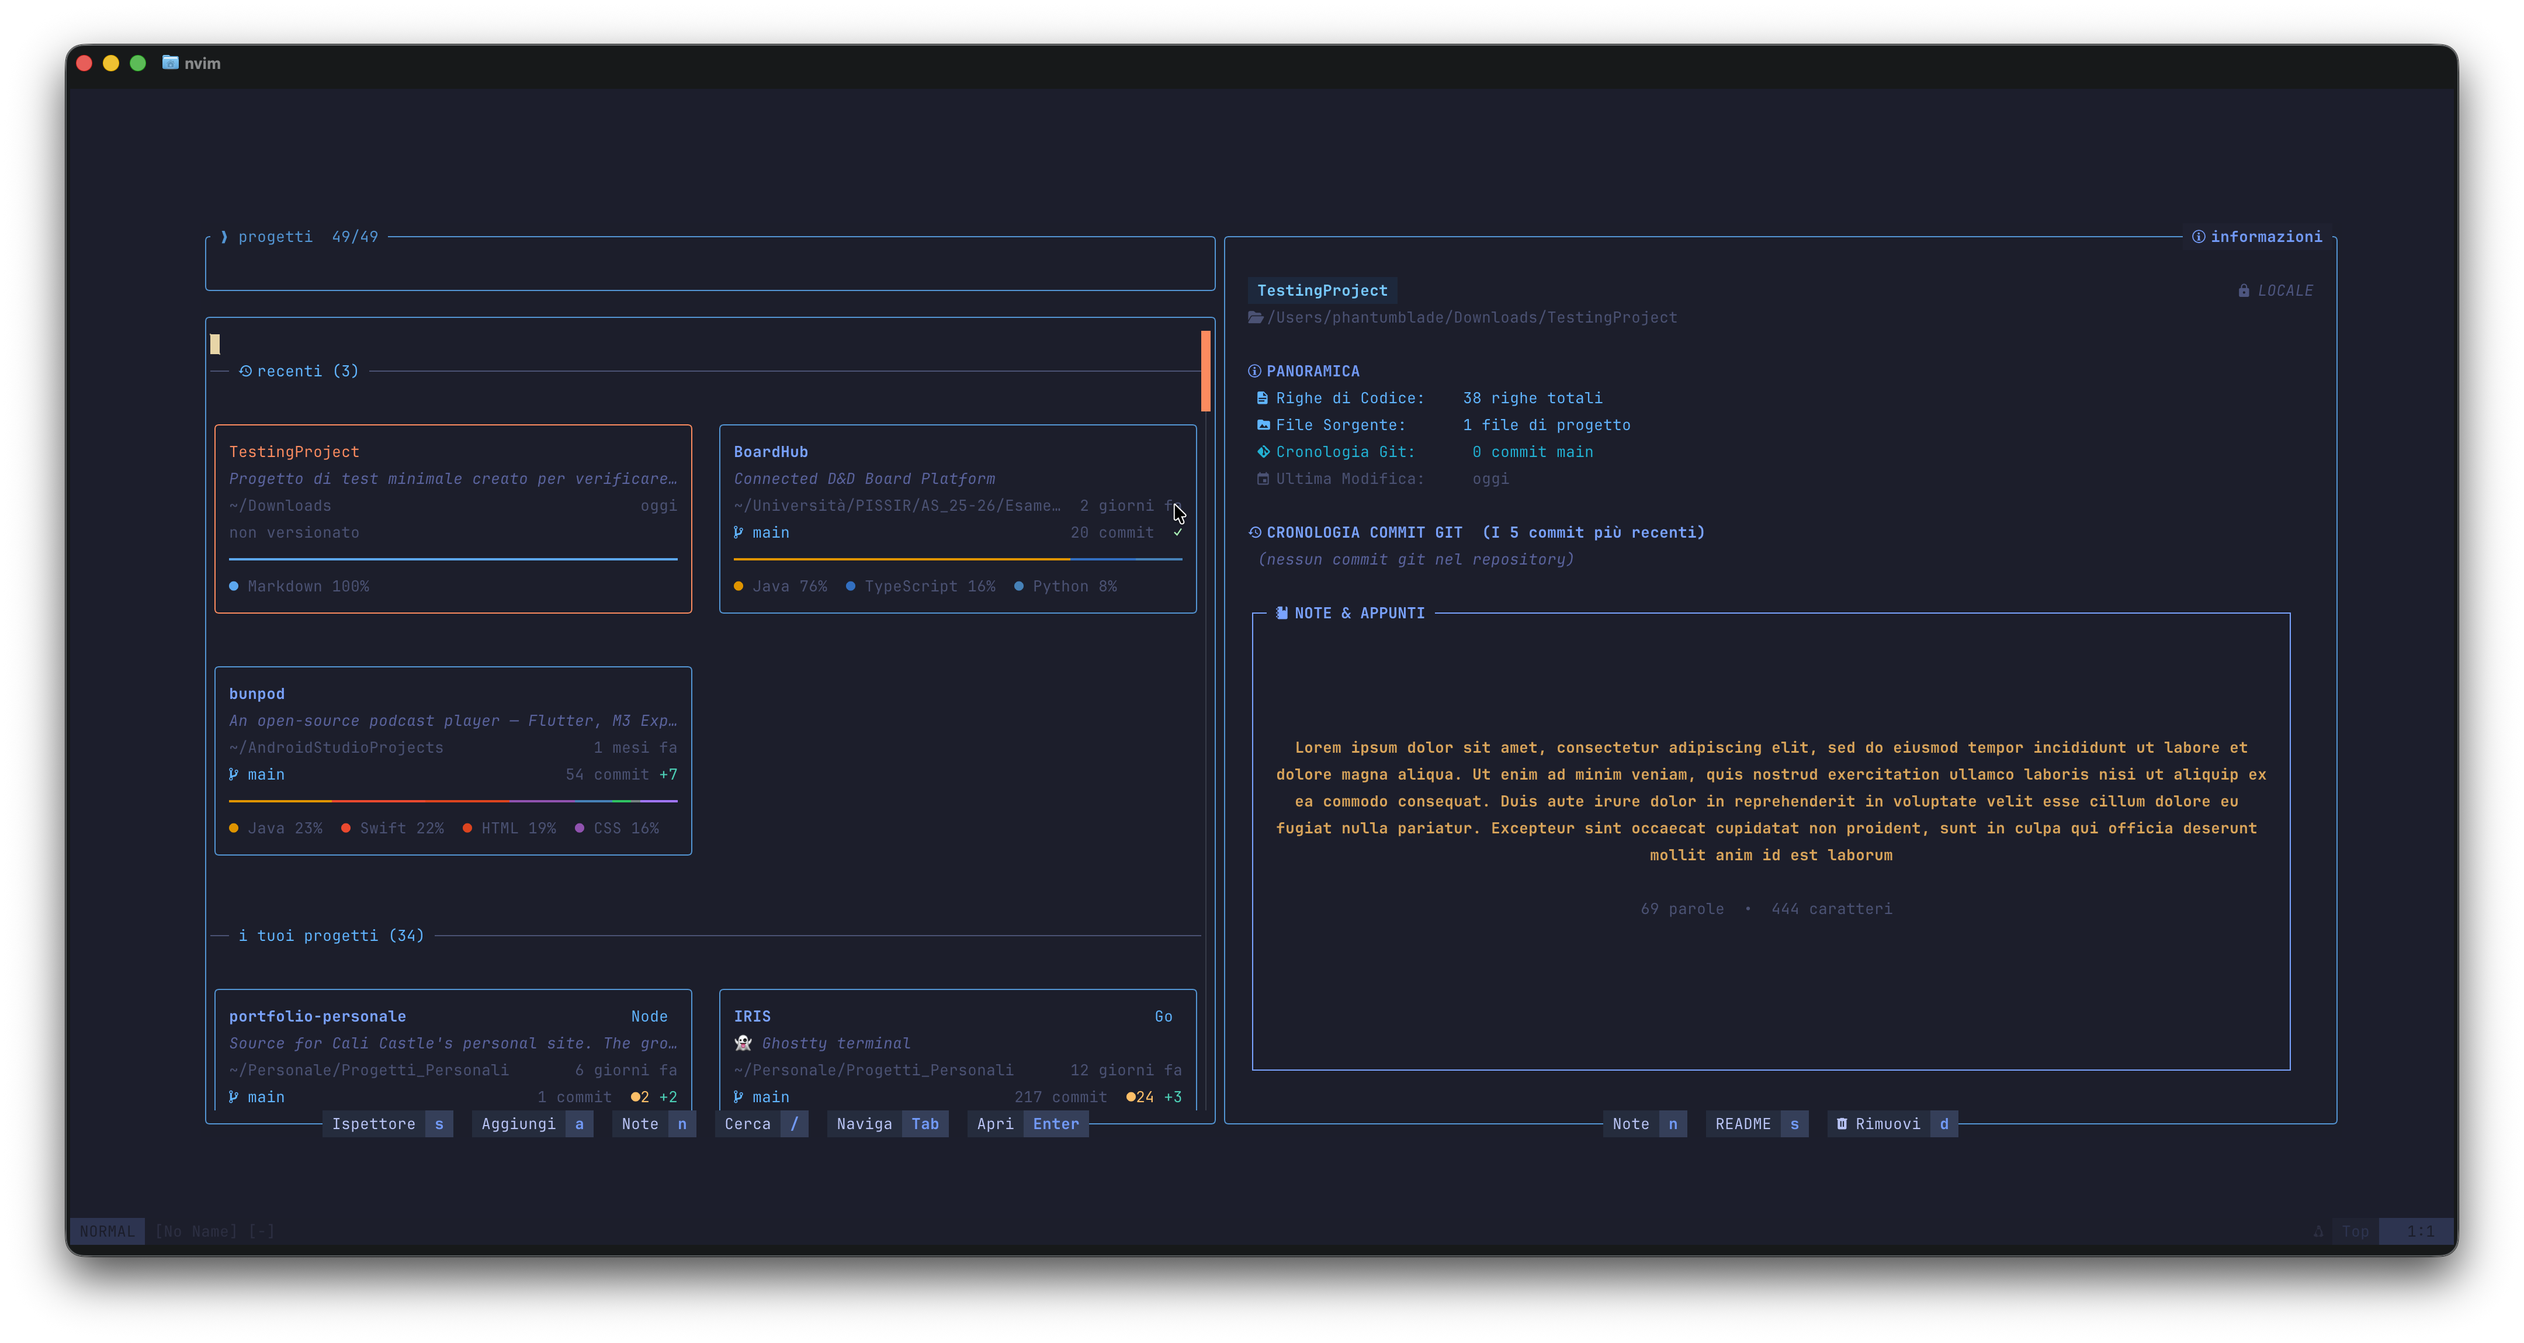
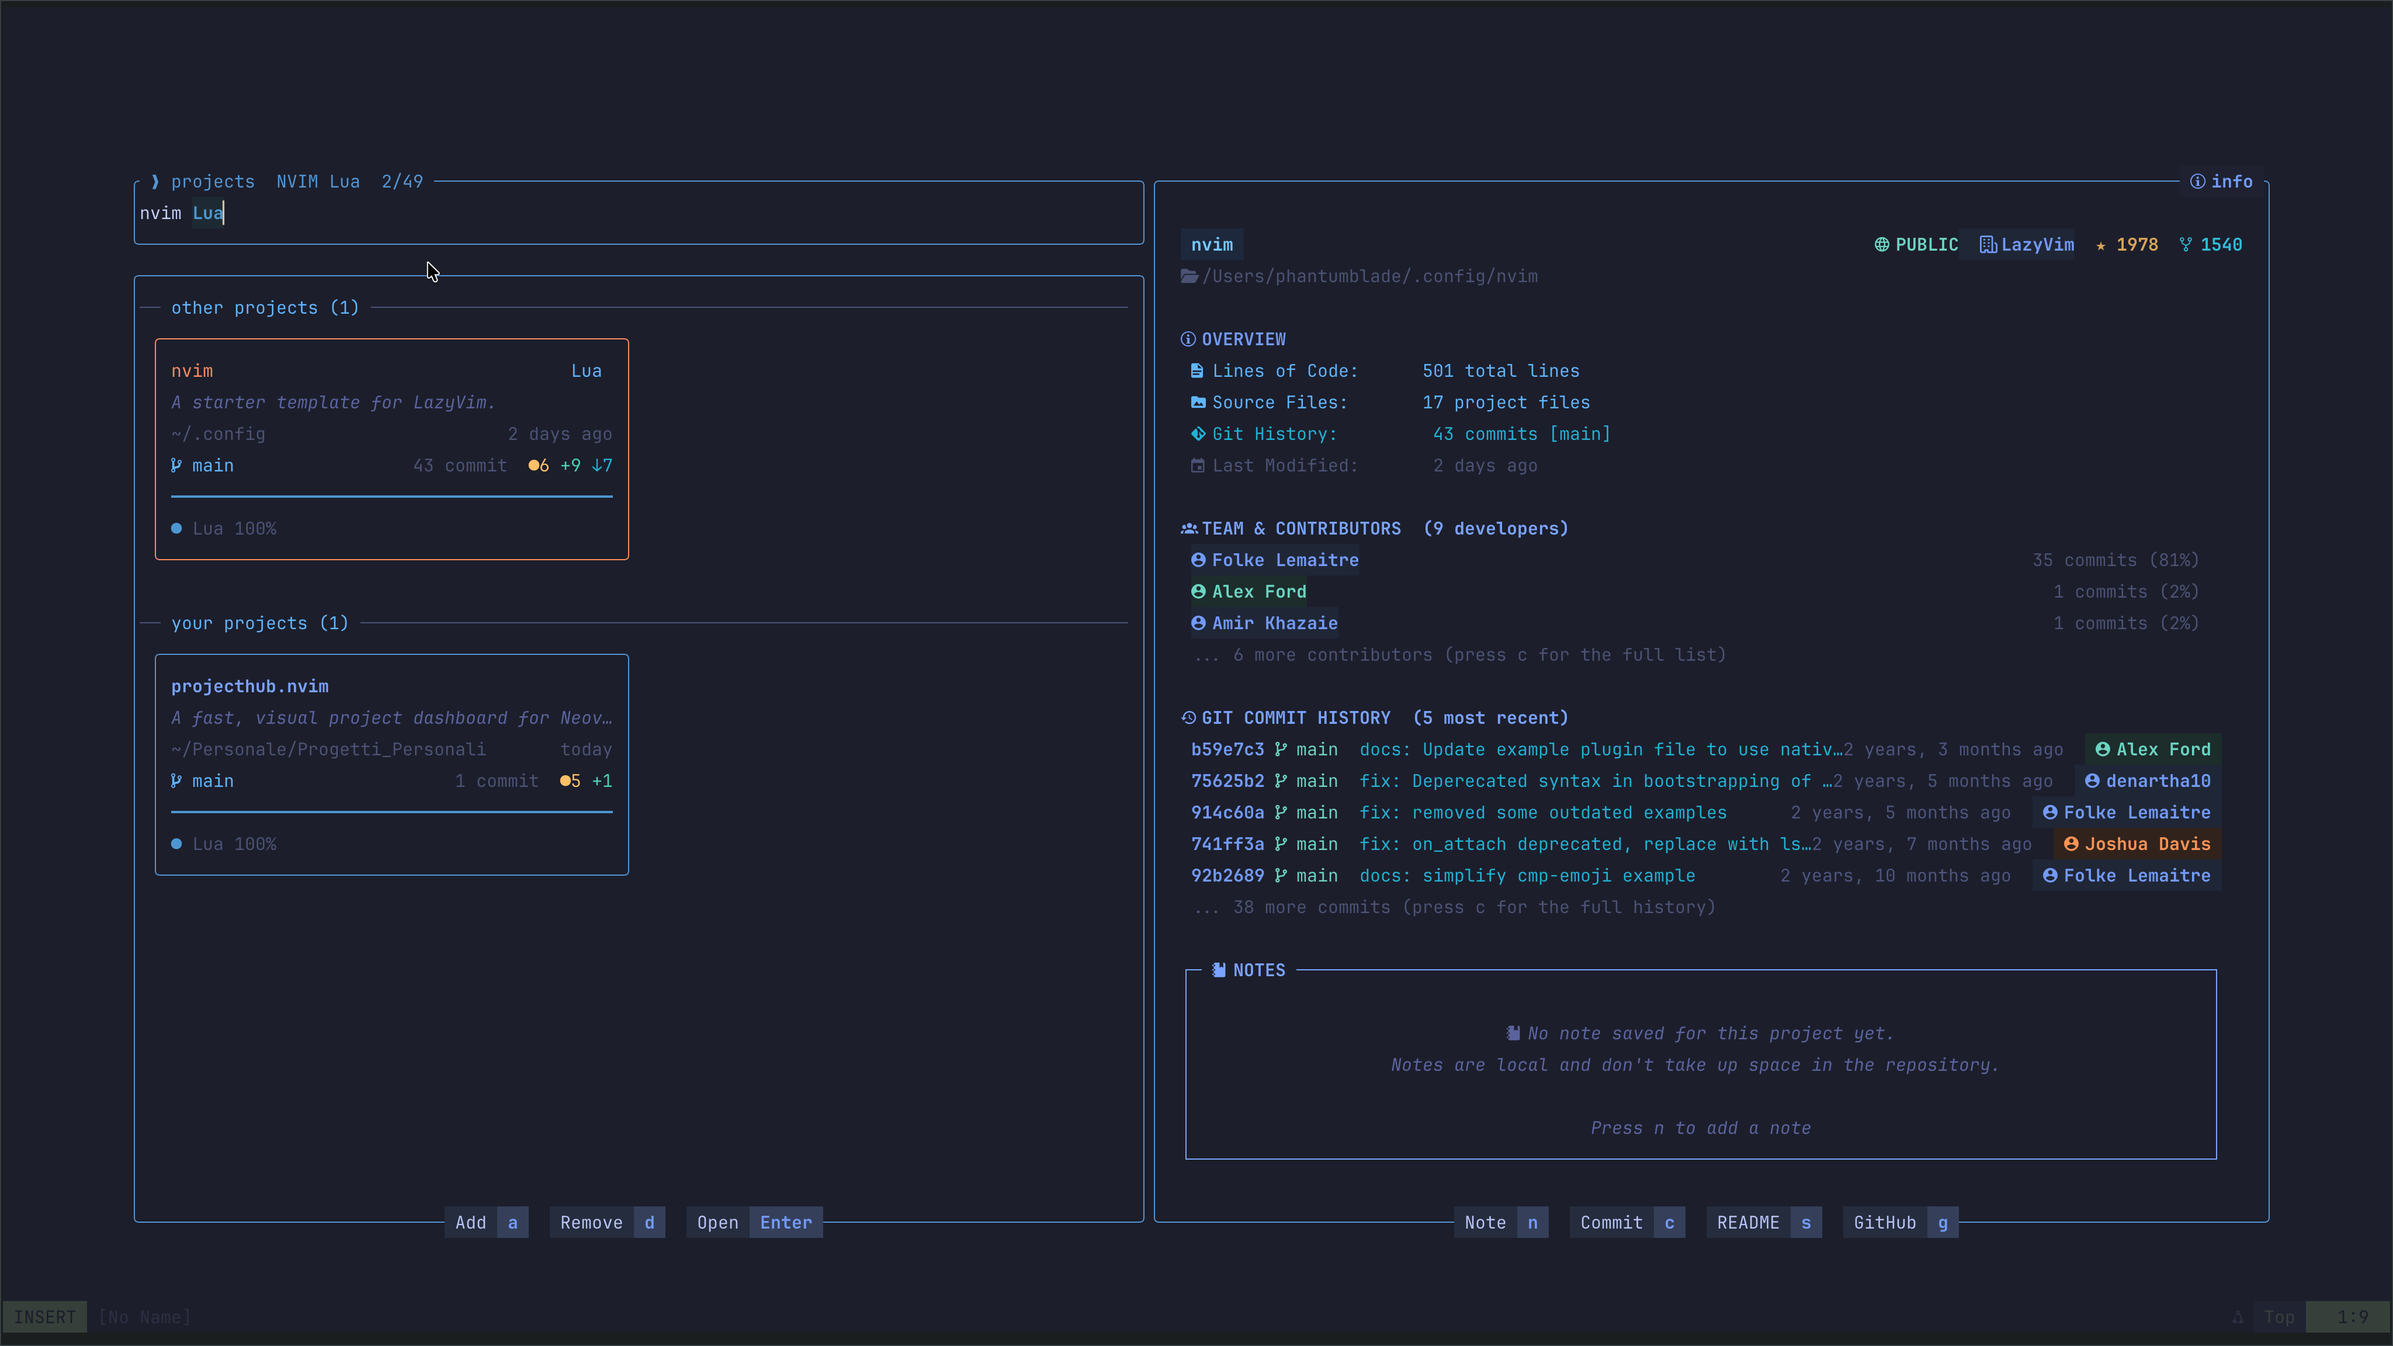
docs: update screenshots showcase gallery and polish README

diff --git a/README.md b/README.md
@@ -1,73 +1,105 @@
-# projecthub.nvim
+# 🚀 projecthub.nvim
 
-A fast, visual project dashboard for Neovim. Scans the folders where you keep
-your repos, shows them as cards with git status, language breakdown and
-GitHub metadata, and lets you jump into any of them in a couple of
-keystrokes — with a built-in fix-up flow for projects you moved or renamed
-on disk.
+<p align="center">
+  <strong>A fast, aesthetic, and visual project dashboard & switcher for Neovim.</strong>
+</p>
 
-![overview](screenshots/overview.png)
+<p align="center">
+  <a href="https://neovim.io"><img src="https://img.shields.io/badge/Neovim-0.10+-57A143?logo=neovim&logoColor=white&style=flat-square" alt="Neovim 0.10+" /></a>
+  <a href="https://www.lua.org"><img src="https://img.shields.io/badge/Lua-5.1%20%2F%20LuaJIT-000080?logo=lua&logoColor=white&style=flat-square" alt="Lua" /></a>
+  <a href="LICENSE"><img src="https://img.shields.io/badge/License-MIT-blue.svg?style=flat-square" alt="License: MIT" /></a>
+  <img src="https://img.shields.io/badge/i18n-English%20%7C%20Italian-purple?style=flat-square" alt="i18n: EN & IT" />
+</p>
 
-## Features
+---
 
-- **Recent + all projects**, grouped and sorted, with a live fuzzy/tag search
-  bar (type a language name like `python` or `swift` to filter by it).
-- **Project cards**: git branch, dirty/staged/untracked/ahead/behind counts,
-  language bar with percentages, last-modified time.
-- **Inspector panel**: lines of code, file count, full commit history with
-  conventional-commit tags, contributor breakdown, GitHub stars/forks/
-  visibility (via `gh`), and a per-project notes pad.
-- **Add a project** by browsing folders from inside the dashboard.
-- **Missing-project recovery**: if a tracked project's folder was moved,
-  renamed or deleted, its card turns red. Reconnect it to its new location
-  using the same folder browser (works even if the folder was renamed), or
-  untrack it — all without leaving Neovim.
-- **README preview** (with `render-markdown.nvim` if installed) or a file
-  tree when there's no README.
-- **Italian / English UI**, switchable live from inside the dashboard (`L`)
-  or fixed via the `language` option.
-- Mouse support, scrollbars, responsive single/two-column layout.
+**`projecthub.nvim`** automatically scans the directories where you keep your code, presenting them as rich, interactive project cards. It displays real-time Git status, language breakdown progress bars, disk lines-of-code statistics, GitHub metadata, and lets you jump directly into any project with **Neo-tree** and `README.md` ready in a single keystroke.
 
-| | |
-|---|---|
-| ![search](screenshots/search-filter.png) | ![inspector](screenshots/inspector.png) |
-| ![add project](screenshots/add-project.png) | ![commit history](screenshots/commit-history.png) |
+![ProjectHub Overview](screenshots/overview.png)
 
-## Requirements
+---
 
-- Neovim >= 0.10
-- [git](https://git-scm.com/) on your `$PATH`
-- A [Nerd Font](https://www.nerdfonts.com/) for the icons
+## ✨ Features
 
-Optional, used if present (everything degrades gracefully without them):
+- ⚡ **Zero-Latency Startup & Scanning**: Background asynchronous parsing keeps your Neovim snappy without lag or UI freezes.
+- 📊 **Rich Project Cards**:
+  - **Language Breakdown**: Multi-color visual progress bars with animated legend marquee.
+  - **Git Status**: Real-time branch, commit counts, ahead/behind sync status, and dirty/staged/untracked indicators.
+  - **Metadata**: Folder path, project type badge, and human-readable last-modified time.
+- 🔍 **Smart Live Filtering & Search Tokens**:
+  - **Fuzzy Text Search**: Matches project name, folder path, and description.
+  - **Language Tokens**: Type `lua`, `python`, `typescript`, `rust`, `go`, `kotlin`, `java`, `swift`, etc. to filter dynamically.
+  - **Visibility Tags**: Type `PUBBLICO` (`PUBLIC`), `PRIVATO` (`PRIVATE`), or `LOCALE` (`LOCAL`, `untracked`) for instant classification.
+- 🔎 **Deep Inspector Panel**:
+  - **Codebase Stats**: Asynchronous Lines-of-Code (LOC) calculator and total project file counter.
+  - **Conventional Commits Tagging**: Automatic badges for `[FEAT]`, `[FIX]`, `[CHANGE]`, `[DOCS]`, `[CHORE]`, `[REFACTOR]`.
+  - **Infinite Scroll Git History (`c`)**: Auto-loads +100 commits dynamically as you scroll to browse repositories with hundreds of commits.
+  - **Team & Collaborators**: Highlights contributors with role-based badges (`👑` Repo Owner, `🏢` Organization, `👤` Team Member).
+- 🌐 **Persistent GitHub Cache**: Authenticated `gh api` queries retrieve stars, forks, visibility, and parent forks with instant `0ms` startup cache saved to disk.
+- 📁 **Interactive Folder Browser (`a`)**: Add new projects directly from an in-editor file browser with duplicate detection.
+- 🛠 **Missing Project Self-Healing (`r` / `d`)**: Moved or renamed project folders are highlighted in red, allowing you to reconnect them in 1-click or untrack them.
+- 📝 **Scratchpad Notes (`n`)**: Dedicated per-project persistent notes editor saved locally on disk.
+- 📖 **README & Web Previews**: Embedded Markdown preview (`s`) or 1-click browser preview for web projects (`w`).
+- 🌐 **Bilingual (English / Italian)**: Toggle UI language on the fly anytime (`L`) or configure statically.
+- 🖱 **Full Mouse & Keyboard Support**: Smooth scrolling with wheel, scrollbar dragging, and responsive single/two-column layouts.
 
-- [`gh`](https://cli.github.com/) — GitHub stars/forks/visibility/owner in the inspector
-- [folke/snacks.nvim](https://github.com/folke/snacks.nvim) — to add a dashboard entry that opens projecthub
-- [echasnovski/mini.icons](https://github.com/echasnovski/mini.icons) — file/folder icons in the tree preview
-- [MeanderingProgrammer/render-markdown.nvim](https://github.com/MeanderingProgrammer/render-markdown.nvim) — rendered README preview
-- [folke/persistence.nvim](https://github.com/folke/persistence.nvim) — restores your last session when you open a project
+---
 
-## Installation
+## 📸 Screenshots Showcase
 
-With [lazy.nvim](https://github.com/folke/lazy.nvim):
+| 🔍 Language & Tag Search | 📜 Infinite-Scroll Commit History (`c`) |
+|:---:|:---:|
+| ![Search & Filter](screenshots/search-filter.png) | ![Commit History](screenshots/commit-history.png) |
+
+| 📖 Markdown README Preview (`s`) | 📁 Interactive Folder Browser (`a`) |
+|:---:|:---:|
+| ![README Preview](screenshots/readme-preview.png) | ![Folder Browser](screenshots/add-project.png) |
+
+| 📝 Scratchpad Notes (`n`) | 🏷 Smart Empty State with Tags |
+|:---:|:---:|
+| ![Notes](screenshots/notes.png) | ![Empty State](screenshots/empty-search.png) |
+
+---
+
+## 📦 Requirements
+
+- **Neovim >= 0.10**
+- **[git](https://git-scm.com/)** installed and available on your `$PATH`
+- A **[Nerd Font](https://www.nerdfonts.com/)** for icons
+
+### Optional Integrations (Graceful Fallback)
+- **[`gh` (GitHub CLI)](https://cli.github.com/)**: Enables authenticated GitHub metadata (stars, forks, visibility).
+- **[`nvim-neo-tree/neo-tree.nvim`](https://github.com/nvim-neo-tree/neo-tree.nvim)**: Automatically opened on the left when opening a project.
+- **[`folke/snacks.nvim`](https://github.com/folke/snacks.nvim)**: For Snacks dashboard entry & snacks explorer fallback.
+- **[`echasnovski/mini.icons`](https://github.com/echasnovski/mini.icons)**: Enhanced file/folder icons in tree views.
+- **[`MeanderingProgrammer/render-markdown.nvim`](https://github.com/MeanderingProgrammer/render-markdown.nvim)**: Formatted Markdown rendering in README preview.
+
+---
+
+## 🚀 Installation
+
+### With [lazy.nvim](https://github.com/folke/lazy.nvim) (Recommended)
 
 ```lua
 {
   "phantumblade/projecthub.nvim",
   keys = {
-    { "<leader>fp", function() require("projecthub").open() end, desc = "Projects" },
+    { "<leader>p", function() require("projecthub").open() end, desc = "Projects Dashboard" },
   },
   opts = {
-    -- container folders to scan: { path, scan_depth }
+    language = "en", -- "en" or "it" (switchable live anytime with 'L')
+    -- Directories to scan: { path, scan_depth }
     roots = {
       { "~/Projects", 1 },
       { "~/Work", 2 },
+      { "~/AndroidStudioProjects", 1 },
     },
-    -- individual project folders outside the roots above
+    -- Individual projects outside the root directories above
     extra = {
       "~/.config/nvim",
+      "~/my-special-project",
     },
-    -- your GitHub usernames, to tell "mine" apart from cloned repos
+    -- Your GitHub usernames (used to highlight owner badges & your repos)
     me = {
       owners = { "your-github-username" },
     },
@@ -75,62 +107,116 @@ With [lazy.nvim](https://github.com/folke/lazy.nvim):
 }
 ```
 
-Nothing is scanned until you open the dashboard, so `opts` alone is enough —
-no explicit `setup()` call needed with lazy.nvim's `opts` field.
+### With [pckr.nvim](https://github.com/lewis6991/pckr.nvim) / [packer.nvim](https://github.com/wbthomason/packer.nvim)
 
-## Configuration
+```lua
+use({
+  "phantumblade/projecthub.nvim",
+  config = function()
+    require("projecthub").setup({
+      roots = { { "~/Projects", 1 } },
+      extra = { "~/.config/nvim" },
+    })
+  end,
+})
+```
 
-Defaults (everything is optional):
+---
+
+## ⚙ Configuration Reference
+
+All settings are optional with sensible defaults:
 
 ```lua
 require("projecthub").setup({
-  language = "en", -- "en" or "it" — switch anytime with the L key, or
-                    -- require("projecthub").set_language("it"|"en")
-  roots = {},   -- { { "~/Projects", depth }, ... }
-  extra = {},   -- { "~/some/single/project", ... }
+  -- Default interface language: "en" (English) or "it" (Italian)
+  -- You can also switch languages on the fly inside the dashboard by pressing 'L'
+  language = "en",
+
+  -- Folders to automatically scan: { path, search_depth }
+  roots = {
+    { "~/Projects", 1 },
+    { "~/Personale/Progetti_Personali", 1 },
+  },
+
+  -- Standalone project directories
+  extra = {
+    "~/.config/nvim",
+  },
+
+  -- User identification for owner badges and personal repository classification
   me = {
-    owners = {}, -- GitHub usernames considered "yours"
+    owners = { "phantumblade" },
   },
+
+  -- Customizable icons (Nerd Font unicode characters)
   icons = {
-    owner = "\u{edeb} ",  -- crown, shown next to the repo owner
-    org = "\u{f42b} ",    -- shown next to an organization
-    member = "\u{f0009} ", -- shown next to other contributors
-    fork = "\u{ea63} ",   -- shown next to the fork count
+    owner = "👑 ",  -- Shown next to the repository owner
+    org = "🏢 ",    -- Shown next to an organization
+    member = "👤 ", -- Shown next to team members / contributors
+    fork = " ",   -- Shown next to fork counts
   },
+
+  -- Floating window layout and responsiveness
   window = {
-    width = 0.90,
-    height = 0.85,
-    left_ratio = 0.48, -- card list vs preview panel split
-    min_card = 34,      -- below this width, cards stack in a single column
+    width = 0.90,       -- Window width ratio (0.1 - 1.0)
+    height = 0.85,      -- Window height ratio (0.1 - 1.0)
+    left_ratio = 0.48,  -- Ratio between left list and right inspector panel
+    min_card = 34,      -- Minimum card width before switching to single column
   },
-  -- Called with the absolute path when you open a project (<CR>). If nil,
-  -- the default is: `:tcd` into it, then restore the session with
-  -- persistence.nvim if there is one, otherwise open Neo-tree.
+
+  -- Custom callback executed when pressing Enter on a project.
+  -- Defaults to: changing directory (`cd`), opening README.md in main buffer,
+  -- and opening Neo-tree on the left side.
   on_open = nil,
 })
 ```
 
-Projects you add from inside the dashboard, your notes, and your recents
-list are stored as JSON under `stdpath("data") .. "/projecthub/"` — nothing
-touches your dotfiles.
+---
 
-## Keymaps (inside the dashboard)
+## ⌨ Keybindings
 
-| Key | Action |
-|---|---|
-| `↑↓←→` / `hjkl` / `Tab` `S-Tab` | move between cards |
-| `Enter` | open the selected project |
-| `/` | focus the search bar |
-| `a` | add a project (browse folders) / confirm in the folder browser |
-| `r` | reconnect a missing project to a new location (browse folders) |
-| `d` | untrack the selected project |
-| `s` | toggle the inspector panel |
-| `n` / `e` | edit the project's note |
-| `c` | expand/collapse full commit history |
-| `g` | open the project on GitHub |
-| `L` | switch the UI language (Italian ⇄ English) |
-| `q` / `Esc` | close (or cancel the folder browser) |
+Inside the dashboard:
 
-## License
+| Key | Action | Description |
+|:---|:---|:---|
+| `↑` `↓` `←` `→` / `h` `j` `k` `l` | **Navigate** | Move selection between project cards |
+| `<CR>` (`Enter`) | **Open Project** | Changes `cwd`, opens `README.md` and displays Neo-tree |
+| `/` | **Search** | Focus the live search and filter input bar |
+| `c` | **Commit History** | Toggle full-screen infinite-scroll commit timeline |
+| `s` | **README Preview** | Toggle embedded Markdown / tree inspector preview |
+| `w` | **Web Preview** | Open project `index.html` in default web browser |
+| `g` | **GitHub** | Open repository URL on GitHub in default browser |
+| `n` / `e` | **Notes** | Open scratchpad note editor for the selected project |
+| `a` | **Add Project** | Open interactive folder browser to track a new project |
+| `r` | **Reconnect** | Reconnect a missing/moved project to its new directory |
+| `d` | **Untrack** | Remove project tracking from custom extras |
+| `L` | **Language** | Switch UI language instantly between English and Italian |
+| `q` / `<Esc>` | **Quit** | Close the dashboard or dismiss the current modal |
+| `<ScrollWheel>` | **Mouse Scroll** | Scroll cards list or inspector preview with inertia |
 
-[MIT](LICENSE)
+---
+
+## 📂 Data Storage
+
+ProjectHub stores custom-added projects, persistent notes, recents history, and GitHub metadata cache cleanly in:
+```
+~/.local/share/nvim/projecthub/
+  ├── custom_projects.json
+  ├── github_meta.json
+  ├── notes.json
+  └── recents.json
+```
+Nothing is ever written into your dotfiles or repository folders.
+
+---
+
+## 📄 License
+
+This project is licensed under the **MIT License** — see the [LICENSE](LICENSE) file for details.
+
+---
+
+<p align="center">
+  Made with ❤ by <a href="https://github.com/phantumblade">phantumblade</a>
+</p>
